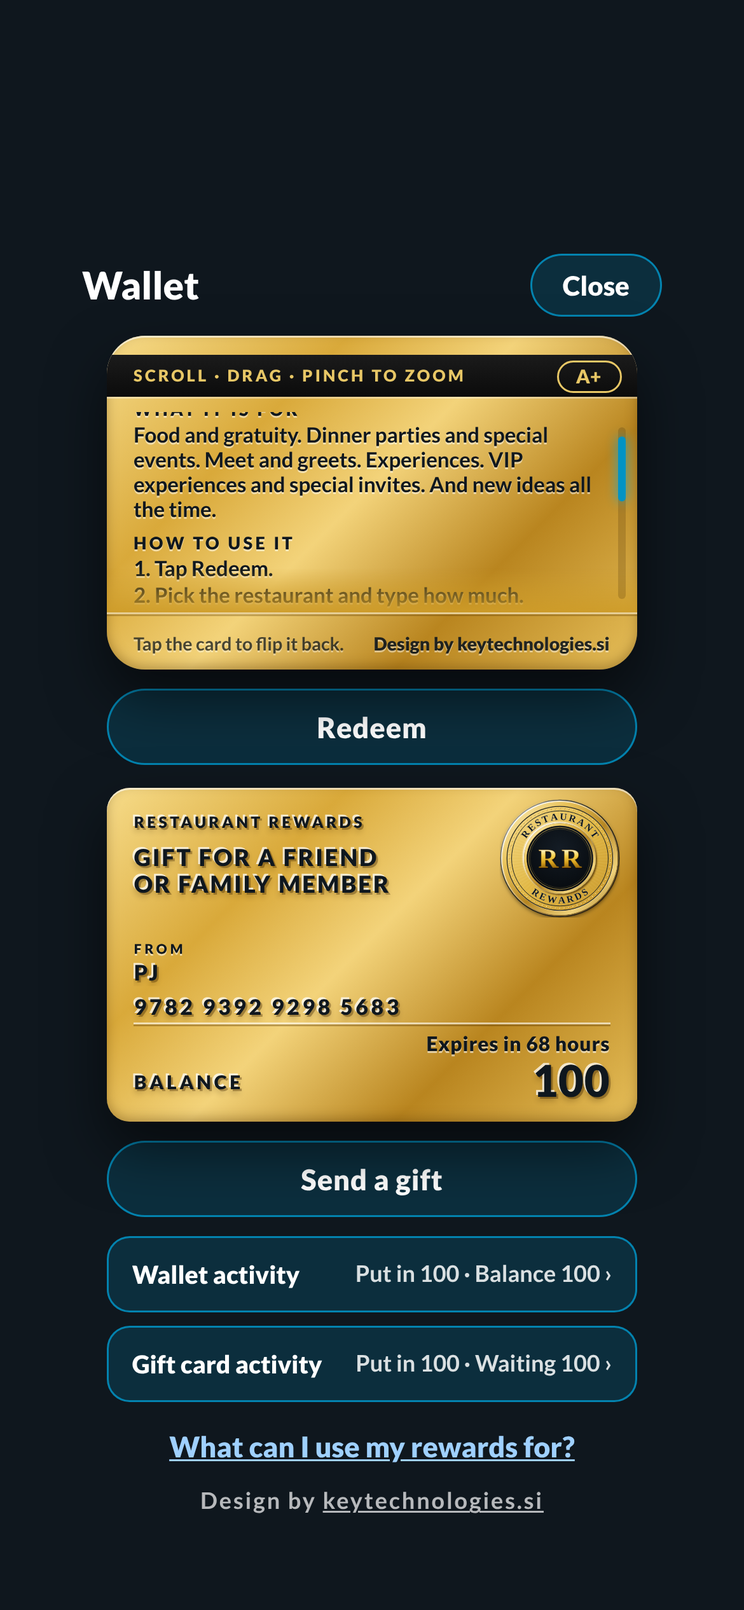
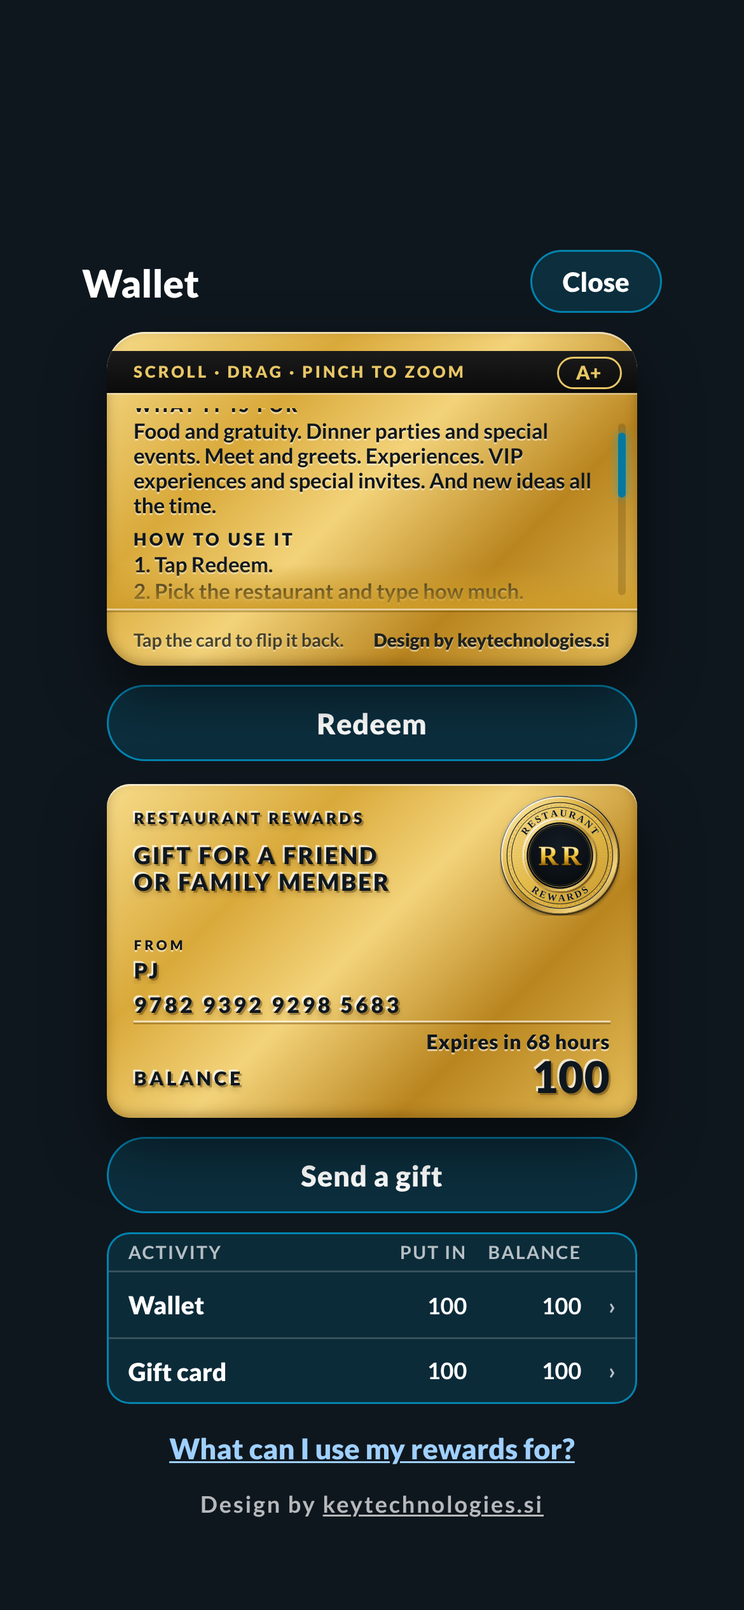
Bank-style ledger: joined activity panel, statement tables with running balance and times to the second
Claude-Session: https://claude.ai/code/session_01C24s48QBeAMLS2iDpVHsTf

Changed region(s): [[0.1231, 0.156, 0.8923, 0.9672], [0.1231, 0.7176, 0.1538, 0.7488], [0.1231, 0.4368, 0.1538, 0.468]]

diff --git a/sites/key-technologies/restaurant-rewards-treasury.html b/sites/key-technologies/restaurant-rewards-treasury.html
@@ -49,7 +49,7 @@ table.who .hist{margin-top:5px;background:none;color:var(--key);border:1px solid
 .gc .brand{font-weight:900;font-size:12px;letter-spacing:.2em;text-transform:uppercase;color:#0f171e;text-shadow:-1px -1px 0 rgba(255,255,255,.75),1px 1px 0 rgba(60,35,0,.35),0 2px 3px rgba(60,35,0,.25)}
 .gc .nm.long{white-space:nowrap;overflow:hidden;text-overflow:ellipsis;font-size:min(17px,4.6vw);padding-right:0}
 .gc .nm{margin-top:6px;font-weight:900;font-size:21px;line-height:1.15;color:#0f171e;text-shadow:-1px -1px 0 rgba(255,255,255,.75),1px 1px 0 rgba(60,35,0,.35),0 2px 3px rgba(60,35,0,.25);padding-right:70px}
-.gc .exp{flex:1 1 auto;min-width:0;margin:0 90px 0 10px;font-size:10px;font-weight:900;line-height:1.2;letter-spacing:.02em;color:#0f171e;text-shadow:0 1px 0 rgba(255,255,255,.55)}.gc .exp.soon{color:#7a1d10}.gc .exp.cd{font-size:10.5px;font-weight:900;letter-spacing:.08em;text-transform:uppercase;font-variant-numeric:tabular-nums}.gc .numrow{margin-top:auto;display:flex;align-items:flex-end;justify-content:space-between;gap:8px}.gc .numrow .num{margin-top:0}.gc .vt{display:flex;align-items:center;gap:4px;flex:none;color:#0f171e;text-shadow:-1px -1px 0 rgba(255,255,255,.75),1px 1px 0 rgba(60,35,0,.35),0 2px 3px rgba(60,35,0,.2)}.gc .vt .vl{font-size:5.5px;line-height:1.15;font-weight:900;letter-spacing:.08em;text-align:left}.gc .vt .vd{font-size:14px;font-weight:700;letter-spacing:.1em;font-variant-numeric:tabular-nums}.gc .vt.soon .vd{color:#7a1d10}.gc .chipx{display:flex;align-items:center;gap:7px}.gc .chipx .c{width:40px;height:29px;display:block;filter:drop-shadow(0 1px 1.2px rgba(60,35,0,.5))}.gc .chipx .w{width:15px;height:20px;display:block}.gc .chip.gchip{display:flex;align-items:center;justify-content:center;font-size:8px;font-weight:900;letter-spacing:.14em;color:#0f171e;text-shadow:0 1px 0 rgba(255,255,255,.55);padding-left:1px}.gc .chip.gchip::before,.gc .chip.gchip::after{display:none}.gc .glab{margin-top:auto;font-size:7px;font-weight:900;letter-spacing:.24em;text-transform:uppercase;color:#0f171e;text-shadow:0 1px 0 rgba(255,255,255,.55)}#pres .gc.gift .glab+.nm{margin-top:1px}#pres .gc.sm .nm+.num{margin-top:3px}#pres .gc.sm .nm,#pres .gc.sm .num{font-size:4.5cqw;font-weight:800;letter-spacing:.14em;line-height:1.25;padding-top:0}.gc .gtitle{margin-top:6px;font-weight:900;font-size:4.9cqw;line-height:1.15;letter-spacing:.08em;white-space:nowrap;color:#0f171e;text-shadow:-1px -1px 0 rgba(255,255,255,.75),1px 1px 0 rgba(60,35,0,.35),0 2px 3px rgba(60,35,0,.25)}#rdm ul.alist{list-style:none;margin:10px 0 0;padding:0;background:#16222f;border:1px solid rgba(255,255,255,.22);border-radius:14px}#rdm ul.alist li{display:flex;justify-content:space-between;gap:12px;padding:11px 14px;border-bottom:1px solid rgba(255,255,255,.14)}#rdm ul.alist li:last-child{border-bottom:0}#rdm ul.alist li span{display:flex;flex-direction:column}#rdm ul.alist li b{font-size:15px}#rdm ul.alist li small{font-size:11.5px;color:rgba(255,255,255,.72);line-height:1.35}#rdm ul.alist li span.a{text-align:right;font-weight:900;font-size:16px;white-space:nowrap}#rdm ul.alist li span.a.in{color:#00a8e1}#pres .acts{display:grid;gap:7px;margin:10px auto 0;width:min(100%,var(--cw))}#pres .actb{display:flex;justify-content:space-between;align-items:center;gap:8px;width:100%;min-height:40px;padding:0 12px;border:1.5px solid rgba(0,168,225,.7);border-radius:12px;background:rgba(0,168,225,.16);color:#fff;font:700 12px Lato,system-ui,sans-serif;cursor:pointer;text-align:left}#pres .actb b{font-weight:900;font-size:13px;white-space:nowrap}#pres .actb span{color:rgba(255,255,255,.85);white-space:nowrap;overflow:hidden;text-overflow:ellipsis}#rdm .asec{margin:16px 0 0}#rdm .asec h3{margin:0 0 6px;font-size:17px}#rdm .sumbox{display:grid;grid-template-columns:repeat(auto-fit,minmax(88px,1fr));gap:8px;margin:0 0 8px}#rdm .sumbox .sc{background:#16222f;border:1px solid rgba(255,255,255,.22);border-radius:12px;padding:8px 10px}#rdm .sumbox small{display:block;font-size:11px;color:rgba(255,255,255,.75);line-height:1.2}#rdm .sumbox b{font-size:19px;color:#f3d884}.gc .tabsl{white-space:nowrap;text-decoration:underline;text-underline-offset:2px;cursor:pointer}#rdm .tabrow{display:flex;justify-content:space-between;align-items:center;gap:10px;margin:8px 0 0;padding:12px 14px;background:#16222f;border:1px solid rgba(255,255,255,.22);border-radius:14px}#rdm .tabrow.first{border-color:rgba(0,168,225,.7)}#rdm .tabrow b{font-size:22px;color:#f3d884;white-space:nowrap;flex:none}#rdm .tabrow span{font-size:13px;line-height:1.35;color:rgba(255,255,255,.85);text-align:right;min-width:0}.gc .rt{display:flex;flex-direction:column;align-items:flex-end}.gc .rt .cdr{font-size:10.5px;font-weight:900;letter-spacing:.03em;text-transform:none;text-align:right;line-height:1.2;margin:0 0 1px;color:#0f171e;text-shadow:0 1px 0 rgba(255,255,255,.55)}.gc .rt .cdr.soon{color:#7a1d10}.xline{margin:6px 0 10px;font-weight:800;font-size:14px;color:#f3d884}.xline.soon{color:#ff9d8a}.gsum .xline{display:block;margin:6px 0 0;font-size:13px}.gc .crow{display:flex;align-items:center;justify-content:space-between;margin-top:6px;margin-bottom:8px}.gc .crow .chip{margin:0}
+.gc .exp{flex:1 1 auto;min-width:0;margin:0 90px 0 10px;font-size:10px;font-weight:900;line-height:1.2;letter-spacing:.02em;color:#0f171e;text-shadow:0 1px 0 rgba(255,255,255,.55)}.gc .exp.soon{color:#7a1d10}.gc .exp.cd{font-size:10.5px;font-weight:900;letter-spacing:.08em;text-transform:uppercase;font-variant-numeric:tabular-nums}.gc .numrow{margin-top:auto;display:flex;align-items:flex-end;justify-content:space-between;gap:8px}.gc .numrow .num{margin-top:0}.gc .vt{display:flex;align-items:center;gap:4px;flex:none;color:#0f171e;text-shadow:-1px -1px 0 rgba(255,255,255,.75),1px 1px 0 rgba(60,35,0,.35),0 2px 3px rgba(60,35,0,.2)}.gc .vt .vl{font-size:5.5px;line-height:1.15;font-weight:900;letter-spacing:.08em;text-align:left}.gc .vt .vd{font-size:14px;font-weight:700;letter-spacing:.1em;font-variant-numeric:tabular-nums}.gc .vt.soon .vd{color:#7a1d10}.gc .chipx{display:flex;align-items:center;gap:7px}.gc .chipx .c{width:40px;height:29px;display:block;filter:drop-shadow(0 1px 1.2px rgba(60,35,0,.5))}.gc .chipx .w{width:15px;height:20px;display:block}.gc .chip.gchip{display:flex;align-items:center;justify-content:center;font-size:8px;font-weight:900;letter-spacing:.14em;color:#0f171e;text-shadow:0 1px 0 rgba(255,255,255,.55);padding-left:1px}.gc .chip.gchip::before,.gc .chip.gchip::after{display:none}.gc .glab{margin-top:auto;font-size:7px;font-weight:900;letter-spacing:.24em;text-transform:uppercase;color:#0f171e;text-shadow:0 1px 0 rgba(255,255,255,.55)}#pres .gc.gift .glab+.nm{margin-top:1px}#pres .gc.sm .nm+.num{margin-top:3px}#pres .gc.sm .nm,#pres .gc.sm .num{font-size:4.5cqw;font-weight:800;letter-spacing:.14em;line-height:1.25;padding-top:0}.gc .gtitle{margin-top:6px;font-weight:900;font-size:4.9cqw;line-height:1.15;letter-spacing:.08em;white-space:nowrap;color:#0f171e;text-shadow:-1px -1px 0 rgba(255,255,255,.75),1px 1px 0 rgba(60,35,0,.35),0 2px 3px rgba(60,35,0,.25)}#rdm ul.alist{list-style:none;margin:10px 0 0;padding:0;background:#16222f;border:1px solid rgba(255,255,255,.22);border-radius:14px}#rdm ul.alist li{display:flex;justify-content:space-between;gap:12px;padding:11px 14px;border-bottom:1px solid rgba(255,255,255,.14)}#rdm ul.alist li:last-child{border-bottom:0}#rdm ul.alist li span{display:flex;flex-direction:column}#rdm ul.alist li b{font-size:15px}#rdm ul.alist li small{font-size:11.5px;color:rgba(255,255,255,.72);line-height:1.35}#rdm ul.alist li span.a{text-align:right;font-weight:900;font-size:16px;white-space:nowrap}#rdm ul.alist li span.a.in{color:#00a8e1}#pres .acts{margin:10px auto 0;width:min(100%,var(--cw));border:1.5px solid rgba(0,168,225,.7);border-radius:12px;background:rgba(0,168,225,.14);overflow:hidden}#pres .ahd,#pres .actb{display:grid;grid-template-columns:minmax(0,1fr) 46px 56px 14px;align-items:center;gap:4px;padding:0 10px}#pres .ahd{min-height:20px;font:700 9.5px Lato,system-ui,sans-serif;letter-spacing:.08em;text-transform:uppercase;color:rgba(255,255,255,.7);border-bottom:1px solid rgba(255,255,255,.18)}#pres .n{text-align:right;font-variant-numeric:tabular-nums}#pres .actb+.actb{border-top:1px solid rgba(255,255,255,.18)}#pres .actb{width:100%;min-height:34px;border:0;background:none;color:#fff;font:700 12px Lato,system-ui,sans-serif;cursor:pointer;text-align:left}#pres .actb:active{background:rgba(0,168,225,.25)}#pres .actb b{font-weight:900;font-size:13px;white-space:nowrap}#pres .actb span{color:#fff;font-weight:700;white-space:nowrap}#pres .actb .ch{color:rgba(255,255,255,.7);text-align:right}#rdm .asec{margin:16px 0 0}#rdm .asec h3{margin:0 0 6px;font-size:17px}#rdm .ltab{border:1px solid rgba(255,255,255,.22);border-radius:12px;background:#16222f;overflow:hidden;font-variant-numeric:tabular-nums}#rdm .lrow{display:grid;grid-template-columns:88px 1fr 54px 58px;gap:6px;padding:9px 10px;border-top:1px solid rgba(255,255,255,.14);align-items:start;font-size:12px}#rdm .lrow:first-child{border-top:0}#rdm .lhd{background:rgba(255,255,255,.07);font-size:9.5px;font-weight:900;letter-spacing:.07em;text-transform:uppercase;color:rgba(255,255,255,.75);padding:7px 10px;align-items:center}#rdm .lrow b{display:block;font-weight:800;font-size:12px}#rdm .lrow small{display:block;font-size:10.5px;color:rgba(255,255,255,.72);line-height:1.3;margin-top:1px;word-break:break-word}#rdm .lrow .n{text-align:right;font-weight:800}#rdm .lrow .amt.in{color:#00a8e1}#rdm .lrow .bal{color:rgba(255,255,255,.9)}#rdm .lrow.tap{cursor:pointer}#rdm .lrow.tap:active{background:rgba(0,168,225,.15)}#rdm .sumbox{display:grid;grid-template-columns:repeat(auto-fit,minmax(88px,1fr));gap:8px;margin:0 0 8px}#rdm .sumbox .sc{background:#16222f;border:1px solid rgba(255,255,255,.22);border-radius:12px;padding:8px 10px}#rdm .sumbox small{display:block;font-size:11px;color:rgba(255,255,255,.75);line-height:1.2}#rdm .sumbox b{font-size:19px;color:#f3d884}.gc .tabsl{white-space:nowrap;text-decoration:underline;text-underline-offset:2px;cursor:pointer}#rdm .tabrow{display:flex;justify-content:space-between;align-items:center;gap:10px;margin:8px 0 0;padding:12px 14px;background:#16222f;border:1px solid rgba(255,255,255,.22);border-radius:14px}#rdm .tabrow.first{border-color:rgba(0,168,225,.7)}#rdm .tabrow b{font-size:22px;color:#f3d884;white-space:nowrap;flex:none}#rdm .tabrow span{font-size:13px;line-height:1.35;color:rgba(255,255,255,.85);text-align:right;min-width:0}.gc .rt{display:flex;flex-direction:column;align-items:flex-end}.gc .rt .cdr{font-size:10.5px;font-weight:900;letter-spacing:.03em;text-transform:none;text-align:right;line-height:1.2;margin:0 0 1px;color:#0f171e;text-shadow:0 1px 0 rgba(255,255,255,.55)}.gc .rt .cdr.soon{color:#7a1d10}.xline{margin:6px 0 10px;font-weight:800;font-size:14px;color:#f3d884}.xline.soon{color:#ff9d8a}.gsum .xline{display:block;margin:6px 0 0;font-size:13px}.gc .crow{display:flex;align-items:center;justify-content:space-between;margin-top:6px;margin-bottom:8px}.gc .crow .chip{margin:0}
 .gc .rrlock{display:flex;align-items:center}.gc .rrlock img{display:block;height:72px;width:auto}.gc.sm .rrlock img{height:46px}
 .gc .rrlock{display:flex;align-items:center;gap:8px}.gc .rrt{font-weight:900;font-size:9.5px;letter-spacing:.14em;line-height:1.25;text-transform:uppercase;text-align:right;color:#0f171e;text-shadow:0 1px 0 rgba(255,255,255,.6)}.gc .rrbadge{position:relative;width:46px;height:46px;border-radius:50%;overflow:hidden;flex:none;box-shadow:0 2px 5px rgba(60,35,0,.35)}.gc .rrbadge img{display:block;width:100%;height:100%}.gc.sm .rrbadge{width:32px;height:32px}.gc.sm .rrt{font-size:7.5px}
 .gc .rrmark{width:40px;height:40px;border-radius:50%;display:flex;align-items:center;justify-content:center;font-weight:900;font-size:15px;letter-spacing:-.04em;color:#0f171e;border:2px solid #0f171e;box-shadow:inset 0 0 0 3px rgba(255,255,255,.28),inset 0 0 0 4px rgba(15,23,30,.55),0 1px 0 rgba(255,255,255,.7);background:radial-gradient(circle at 35% 30%,rgba(255,255,255,.55),rgba(255,255,255,0) 60%);text-shadow:0 1px 0 rgba(255,255,255,.6);padding-right:1px}.gc.sm .rrmark{width:28px;height:28px;font-size:11px;border-width:1.5px;box-shadow:inset 0 0 0 2px rgba(255,255,255,.28),inset 0 0 0 3px rgba(15,23,30,.5)}
@@ -105,7 +105,7 @@ table.who .hist{margin-top:5px;background:none;color:var(--key);border:1px solid
 #pres .plogos{display:flex;gap:12px;align-items:center;justify-content:center;flex-wrap:wrap;margin:18px 0 6px}#pres .plogos img{height:64px;width:auto;max-width:150px;object-fit:contain}
 #pres h2{text-align:center;font-size:22px;margin:6px 0 2px}
 #pres .gc{max-width:none;width:100%;margin:10px 0 4px;aspect-ratio:1.58/1}
-#pres{--cw:clamp(244px,calc((100vh - 494px)/2*1.586),304px);--cw:clamp(244px,calc((100dvh - 494px)/2*1.586),304px)}@media(max-height:700px){#pres .pc>.rbtn,#pres .pc>.giftpill,#pres .btnrow .rbtn{min-height:34px;font-size:14px;margin-top:6px}#pres .btnrow{margin-top:6px}#pres .flip{margin:6px 0 2px}#pres .gblock .gc{margin:0}#pres .kt{margin:6px 0 2px}#pres .uses{margin-top:6px}#pres .pc>h3,#pres .pc>ul{display:none}}@media(max-height:780px){#pres .pc>ul,#pres .pc>h3{display:none}}@media(max-height:700px){#pres .pc>a.uses{display:none!important}#pres .acts{gap:5px;margin-top:6px}#pres .actb{min-height:32px;font-size:11px}#pres .actb b{font-size:12px}}@media(max-height:600px){#pres .actb{min-height:26px}#pres .acts{gap:4px}#pres{--cw:196px}#pres .phead{margin:0}#pres .pc{padding-top:4px}#pres .flip{margin:4px 0 0}#pres .kt{margin:2px 0 0}#pres .gblock .gc{margin:0}#pres .acts{margin-top:4px}#pres .pc>a.uses{display:none!important}#pres button.more{margin-top:6px;min-height:0;padding:4px}#pres{--cw:196px}#pres .pc>.rbtn,#pres .pc>.giftpill,#pres .btnrow .rbtn{min-height:32px;font-size:13px}}@media(max-height:620px){#pres .uses{display:none}#pres .phead{margin-bottom:2px}#pres .pc{padding-top:8px}#pres .kt{margin:4px 0 0}}
+#pres{--cw:clamp(244px,calc((100vh - 494px)/2*1.586),304px);--cw:clamp(244px,calc((100dvh - 494px)/2*1.586),304px)}@media(max-height:700px){#pres .pc>.rbtn,#pres .pc>.giftpill,#pres .btnrow .rbtn{min-height:34px;font-size:14px;margin-top:6px}#pres .btnrow{margin-top:6px}#pres .flip{margin:6px 0 2px}#pres .gblock .gc{margin:0}#pres .kt{margin:6px 0 2px}#pres .uses{margin-top:6px}#pres .pc>h3,#pres .pc>ul{display:none}}@media(max-height:780px){#pres .pc>ul,#pres .pc>h3{display:none}}@media(max-height:700px){#pres .pc>a.uses{display:none!important}#pres .acts{margin-top:6px}#pres .actb{min-height:26px;font-size:11px}#pres .ahd{min-height:15px;font-size:9px}#pres .actb b{font-size:12px}}@media(max-height:600px){#pres .ahd,#pres .actb{grid-template-columns:minmax(0,1fr) 40px 46px 10px;padding:0 8px;gap:3px}#pres .actb{min-height:24px}#pres .ahd{min-height:14px}#pres{--cw:196px}#pres .phead{margin:0}#pres .pc{padding-top:2px}#pres .flip{margin:2px 0 0}#pres .kt{margin:0;font-size:10px;line-height:1.1}#pres .gblock .gc{margin:0}#pres .acts{margin-top:3px}#pres .pc>a.uses{display:none!important}#pres button.more{margin-top:6px;min-height:0;padding:4px}#pres{--cw:196px}#pres .pc>.rbtn,#pres .pc>.giftpill,#pres .btnrow .rbtn{min-height:28px;font-size:13px}}@media(max-height:620px){#pres .uses{display:none}#pres .phead{margin-bottom:2px}#pres .pc{padding-top:8px}#pres .kt{margin:4px 0 0}}
 #pres .pc>.gc,#pres .flip,#pres .gblock{width:min(100%,var(--cw));margin-left:auto!important;margin-right:auto!important}#pres .pc>.rbtn,#pres .pc>.giftpill,#pres .pc>.btnrow{width:min(100%,var(--cw));margin-left:auto;margin-right:auto}#pres .gc.sm{border-radius:12px;container-type:inline-size}#pres .flip{border-radius:12px}
 #pres .gc::after{display:none}
 #pres .gc:not(.back){aspect-ratio:1.586/1}#pres .gc.sm .bal{margin-top:2px;padding-top:3px}#pres .gc.sm .bal b{font-size:min(25px,9.2cqw)}#pres .gc.sm .bal small{font-size:10px}#pres .gc.sm .brand{font-size:min(10.5px,calc((58cqw - 14px)/16));letter-spacing:.18em;white-space:nowrap}
@@ -491,11 +491,11 @@ table.who .hist{margin-top:5px;background:none;color:var(--key);border:1px solid
   $('whosum').textContent='Given away so far: '+fmt(d.tOut)+' to '+d.rows.length+' '+(d.rows.length===1?'wallet':'wallets')+'. Still in wallets: '+fmt(d.tW)+'. Waiting in gift cards: '+fmt(d.tG)+'. Expired and back in the Treasury: '+fmt(d.ret)+'. In the Treasury now: '+fmt(d.tre)+'. '+(d.dupe?'WARNING: two cards share a number.':'Every card has its own number.')}
 
  /* Every move that touches a wallet OR its gift card, oldest first, each with the exact time it went through. Nothing is left out: the account opening, the gift card being issued, a gift being given, credit expiring, payments, declines. */
- function actRows(w){var id=w.id,gids={};giftsFor(w).forEach(function(g){gids[g.id]=1});var rows=[],run=0;
+ function actRows(w){var id=w.id,gids={};giftsFor(w).forEach(function(g){gids[g.id]=1});var rows=[],run=0,grun=0;
   S.entries.forEach(function(e){var inG=!!(gids[e.to]||gids[e.from]),inW=e.to===id||e.from===id;if(!inG&&!inW)return;
    var nt=cleanNote(e.note),r={e:e,t:'',amt:null,sign:'',run:null,tag:'',s2:[],gift:inG};
    if(e.kind==='open'){r.t=e.to===id?'Account opened':'Gift card created';r.tag='';rows.push(finishRow(r,nt));return}
-   if(inG){r.tag='Gift card';if(gids[e.to]&&!e.from){r.t='Gift card opened'}else if(gids[e.to]){r.t='Gift card issued';r.sign='+'}else if(isExp(e)){r.t='Gift card expired';r.sign='−'}else if(isGiftE(e)){r.t='Gift given to '+wname(e.to);r.sign='−'}else{r.t='Gift card move';r.sign='−'}r.amt=e.amt;rows.push(finishRow(r,nt));return}
+   if(inG){r.tag='Gift card';if(gids[e.to]&&!e.from){r.t='Gift card opened'}else if(gids[e.to]){r.t='Gift card issued';r.sign='+'}else if(isExp(e)){r.t='Gift card expired';r.sign='−'}else if(isGiftE(e)){r.t='Gift given to '+wname(e.to);r.sign='−'}else{r.t='Gift card move';r.sign='−'}r.amt=e.amt;grun+=gids[e.to]?e.amt:-e.amt;r.run=grun;rows.push(finishRow(r,nt));return}
    var inn=e.to===id,d=inn?(credited(e)?e.amt:0):(debited(e)?-e.amt:0);run+=d;r.amt=e.amt;r.run=run;r.inn=inn;
    if(inn){if(!e.from)r.t='Opening balance';else if(isExp(e))r.t=isGiftW(wById(e.from))?'Expired gift card, back to the Treasury':'Expired credit from '+wname(e.from);else if(isGiftE(e))r.t='Gift from '+giftHolder(wById(e.from));else if(isPay(e))r.t='Payment from '+wname(e.from);else if(e.from==='treasury')r.t='Credit from the Treasury';else r.t='Received from '+wname(e.from);r.sign=(e.status==='declined'||id==='treasury')?'':'+'}
    else{r.t=isExp(e)?'Expired':isPay(e)?'Paid '+wname(e.to):(isGiftW(wById(e.to))?'Gift of '+fmt(e.amt)+' for '+giftHolder(wById(e.to)):'Sent to '+wname(e.to));r.sign=(e.status==='declined'||id==='treasury')?'':'−'}
@@ -512,12 +512,17 @@ table.who .hist{margin-top:5px;background:none;color:var(--key);border:1px solid
    if(gids[e.to]&&e.from==='treasury'&&e.kind!=='open')A.gIssued+=e.amt;if(gids[e.from]&&isGiftE(e))A.gGiven+=e.amt;if(gids[e.from]&&isExp(e))A.gExpired+=e.amt});
   gs.forEach(function(g){A.gWaiting+=avail(g.id)});
   actRows(w).forEach(function(r){if(r.gift)A.nG++;else A.nW++});return A}
+ function dOf(t){return new Date(t).toLocaleDateString('en-US',{month:'short',day:'numeric',year:'numeric'})}
+ function tOf(t){return new Date(t).toLocaleTimeString('en-US',{hour:'numeric',minute:'2-digit',second:'2-digit',timeZoneName:'short'})}
+ function ledgerTable(rows,id){var T=el('div','ltab');T.setAttribute('role','table');var h=el('div','lrow lhd');['Date and time','Record','Amount','Balance'].forEach(function(x,i){h.appendChild(el('span',i>1?'n':null,x))});T.appendChild(h);
+  rows.forEach(function(r){var e=r.e,li=el('div','lrow'),a=el('span','dt'),b=el('span','rec');a.appendChild(el('b',null,dOf(e.t)));a.appendChild(el('small',null,tOf(e.t)));li.appendChild(a);b.appendChild(el('b',null,r.t));var x=r.s2.join(' \u00b7 ').replace(/No\. /g,'No.\u00a0');if(x)b.appendChild(el('small',null,x));li.appendChild(b);var dc=e.status==='declined';li.appendChild(el('span','n amt'+(r.inn&&!dc&&!r.tag?' in':''),r.amt===null?'':r.sign+fmt(r.amt)));li.appendChild(el('span','n bal',r.run===null?'':fmt(r.run)));li.title='Recorded '+iso(e.t)+' (UTC)';
+   if(isPay(e)){li.className+=' tap';li.setAttribute('role','button');li.setAttribute('tabindex','0');var open=function(){receipt(e,id)};li.addEventListener('click',open);li.addEventListener('keydown',function(ev){if(ev.key==='Enter')open()})}T.appendChild(li)});return T}
  function sumBox(items){var b=el('div','sumbox');items.forEach(function(it){var c=el('div','sc');c.appendChild(el('small',null,it[0]));c.appendChild(el('b',null,fmt(it[1])));b.appendChild(c)});return b}
  function openActivity(id,focus){var w=wById(id),rc=$('rc'),all=actRows(w).reverse();ac();rc.innerHTML='';
   var hd=el('div','rhead');hd.appendChild(el('h2',null,'Activity'));var ex=el('button','exit','Back');ex.type='button';ex.addEventListener('click',function(){$('rdm').classList.add('hide')});hd.appendChild(ex);rc.appendChild(hd);
   var nm=id==='treasury'?'Treasury':w.name;
-  rc.appendChild(el('p','have',nm+': '+all.length+' '+(all.length===1?'record':'records')+', newest first. Each one shows the exact date and time it went through, in your phone’s time zone.'));
-  var mk=function(title,sums,rows,key){var sec=el('div','asec');sec.id='asec-'+key;sec.appendChild(el('h3',null,title));if(sums)sec.appendChild(sums);var ul=el('ul','alist');rows.forEach(function(r){ul.appendChild(rowLi(r,id))});if(rows.length)sec.appendChild(ul);else sec.appendChild(el('p','fine','Nothing yet.'));rc.appendChild(sec);return sec};
+  rc.appendChild(el('p','have',nm+': '+all.length+' '+(all.length===1?'record':'records')+', newest first. Each record shows the exact date and time, to the second, in your phone’s time zone.'));
+  var mk=function(title,sums,rows,key){var sec=el('div','asec');sec.id='asec-'+key;sec.appendChild(el('h3',null,title));if(sums)sec.appendChild(sums);if(rows.length)sec.appendChild(ledgerTable(rows,id));else sec.appendChild(el('p','fine','Nothing yet.'));rc.appendChild(sec);return sec};
   var targets={};
   if(id==='treasury'){targets.wallet=mk('Treasury',null,all,'wallet')}
   else{var A=actSums(w),wr=all.filter(function(r){return !r.gift}),gr=all.filter(function(r){return r.gift});
@@ -581,8 +586,8 @@ table.who .hist{margin-top:5px;background:none;color:var(--key);border:1px solid
   giftsFor(w).forEach(function(g){var gb=giftBlock(g,id);if(gb)pc.appendChild(gb)});
   if(w.id!=='treasury'){var sg=el('button','giftpill','Send a gift');sg.type='button';sg.addEventListener('click',function(){openSendGift(id)});pc.appendChild(sg)}
   if(id==='treasury'){var rows=actRows(w).reverse(),h3a=el('h3',null,'Activity');pc.appendChild(h3a);var ul=el('ul');rows.slice(0,2).forEach(function(r){ul.appendChild(rowLi(r,id,true))});if(rows.length)pc.appendChild(ul);else h3a.remove();if(rows.length){var mb=el('button','more','All activity ('+rows.length+')');mb.type='button';mb.addEventListener('click',function(){openActivity(id)});pc.appendChild(mb)}}
-  else{var A=actSums(w),box=el('div','acts');var ab=function(label,line,key){var b=el('button','actb');b.type='button';b.appendChild(el('b',null,label));b.appendChild(el('span',null,line));b.addEventListener('click',function(){openActivity(id,key)});box.appendChild(b)};
-   ab('Wallet activity','Put in '+fmt(A.putIn+A.gifts)+' · Balance '+fmt(A.bal)+' ›','wallet');if(A.hasGift)ab('Gift card activity','Put in '+fmt(A.gIssued)+' · Waiting '+fmt(A.gWaiting)+' ›','gift');pc.appendChild(box)}
+  else{var A=actSums(w),box=el('div','acts'),hd=el('div','ahd');hd.appendChild(el('span',null,'Activity'));hd.appendChild(el('span','n','Put in'));hd.appendChild(el('span','n','Balance'));hd.appendChild(el('span','ch',''));box.appendChild(hd);var ab=function(label,put,bal,key){var b=el('button','actb');b.type='button';b.setAttribute('aria-label',label+' activity: put in '+fmt(put)+', balance '+fmt(bal));b.appendChild(el('b',null,label));b.appendChild(el('span','n',fmt(put)));b.appendChild(el('span','n',fmt(bal)));b.appendChild(el('span','ch','\u203a'));b.addEventListener('click',function(){openActivity(id,key)});box.appendChild(b)};
+   ab('Wallet',A.putIn+A.gifts,A.bal,'wallet');if(A.hasGift)ab('Gift card',A.gIssued,A.gWaiting,'gift');pc.appendChild(box)}
   var ul2=el('a','uses','What can I use my rewards for?');ul2.href='restaurant-rewards-uses.html';pc.appendChild(ul2);
   pc.appendChild(credit());$('pres').classList.remove('hide');if(!quiet)rollAll();document.body.style.overflow='hidden';$('pres').scrollTop=0}
  $('lock').addEventListener('click',function(){RR.signOut();location.reload()});

diff --git a/docs/key-integration/NEXT_STEPS.md b/docs/key-integration/NEXT_STEPS.md
@@ -395,3 +395,5 @@ KNOWN GAPS (told to Shane): (a) the time a restaurant CONFIRMS or declines a pay
 216. TWO ACTIVITY REPORTS PER WALLET (2026-11-19, Shane: "I need the details... how much did I put in their wallet and how much in their gift wallet? Everything tracked on every single wallet... next time I open up Crown I want to see both activity reports. One goes in his wallet, one goes to his gift wallet."). In restaurant-rewards-treasury.html every customer wallet screen now has two buttons under the card: "Wallet activity" (put in, balance) and "Gift card activity" (put in, waiting). Tapping either opens one Activity sheet with two sections, each with its own totals box and its own list of records, each with exact date, time and No.: WALLET (put in by the Treasury, received as gifts, spent or paid, expired, balance now) and GIFT CARD (put in by the Treasury, given away, expired, waiting now). The tapped button scrolls to its section. Treasury keeps its single list. Checked: Crown wallet put in 100 / balance 100, gift put in 100 / waiting 100; Zachary after giving to Zed gift given 100 / waiting 0 and Zed shows "received as gifts 100". Fit matrix (15 phone sizes) 0 problems; no visible "RR" (rrscan); site-check HARD 0.
 
 217. FULL HISTORY FOR EVERY WALLET + "RR" CLEANUP + JOHNNY MAC'S PROPOSAL (2026-11-19, Shane). (A) Owner "Who got what" list: every wallet row has a "History ›" button that opens that wallet's two reports (wallet and gift card, with totals), and a new "Download every wallet's full history (CSV)" (holder, wallet or gift card, local and UTC time, record, amount, balance after, confirmation, details). (B) "RR" removed from visible text on the Johnny Mac's and Thin Blue 702 demo pages (card numbers, balance suffix, step title), the "What can you do" page and the four share screens (headline now "Restaurant Rewards"); the four share pictures in brand/ were re-rendered. The card seal still says RR (the only place). (C) Proposal for the Johnny Mac's owner as a Claude Doc (4 levels: $200,000 a year plus 3% of sales, $100,000, $50,000, $25,000; special quote below that). OPEN: define "sales" (gross or net of tax and tips, all three locations?), whether levels 2-4 have a sales share, and exactly what each level includes, before the meeting.
+
+218. BANK-STYLE LEDGER (2026-11-19, Shane: "make it look like a real banking ledger, I don't like them two spread apart, and put the dates and times in seconds"). (A) Wallet screen: the two activity buttons are now ONE joined panel with a header row (Activity, Put in, Balance) and two rows (Wallet, Gift card), numbers lined up in columns like a bank statement. (B) Activity sheet: each report is a bank-statement table with columns Date and time (date on one line, time to the second plus zone under it), Record (with its No. and notes), Amount, and Balance (running balance after each record; the gift card report now keeps its own running balance too). Payment rows still open the receipt. Fit matrix 15 sizes: 0 problems (320x568 card width 196px, tighter margins on short phones); no visible RR; site-check HARD 0.
